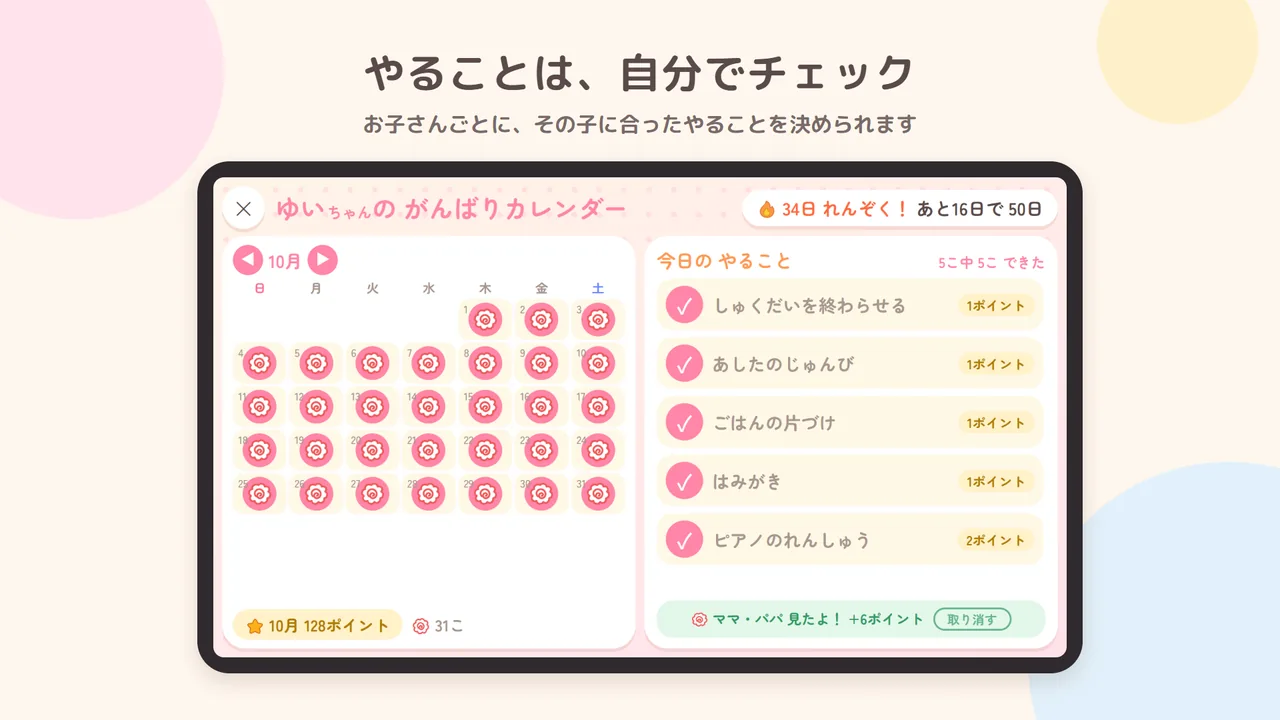
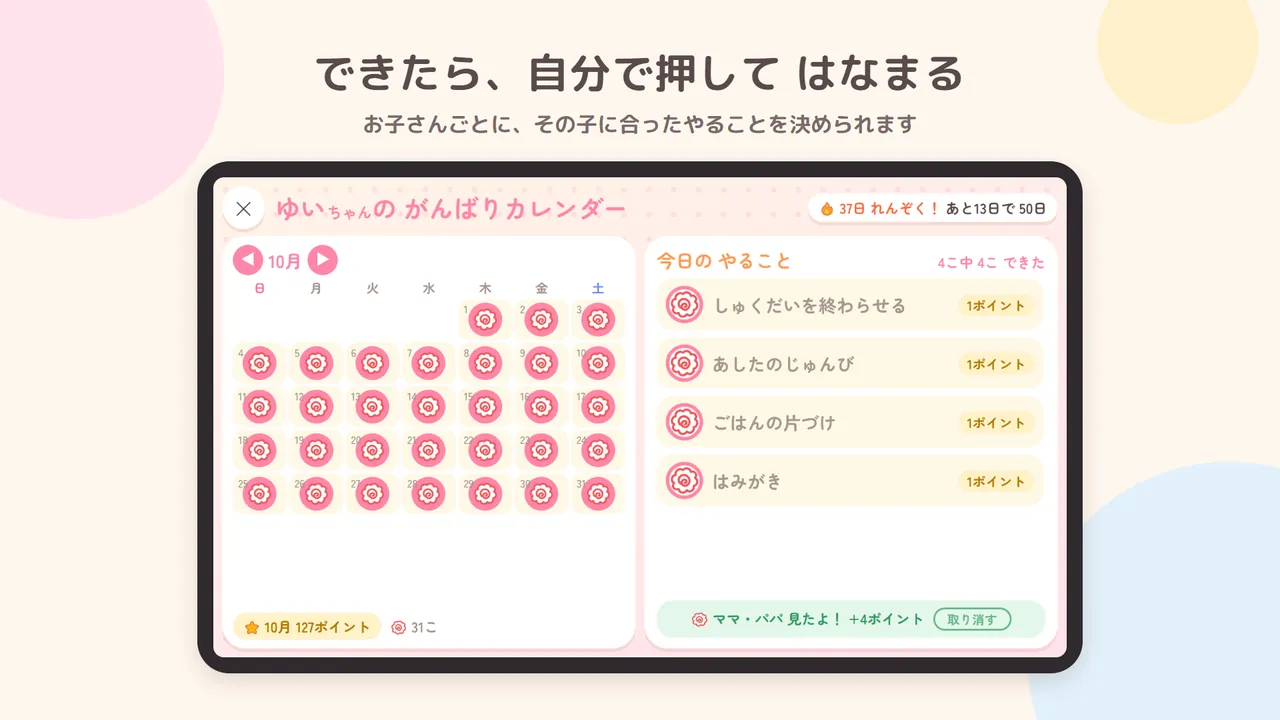
できたしるしを はなまるにそろえ、子どもの画面の画像を撮り直す

diff --git a/index.html b/index.html
@@ -40,7 +40,7 @@
       <p class="copy">今日がわかる。自分でできる。</p>
     </div>
   </div>
-  <p class="lead">余ったタブレットを、子どもが毎朝見るボードにするアプリです。時計・天気・予定と、子どもごとのやることを1つの画面に出します。子どもが自分でチェックし、おうちの人が「みました」を押すと、カレンダーにはなまるがつきます。</p>
+  <p class="lead">余ったタブレットを、子どもが毎朝見るボードにするアプリです。時計・天気・予定と、子どもごとのやることを1つの画面に出します。子どもができたやることを自分で押して はなまるにし、おうちの人が「みました」を押すと、カレンダーにもはなまるがつきます。</p>
 
   <section class="ask">
     <h2>テストにご協力ください</h2>
@@ -51,7 +51,7 @@
   <h2>画面</h2>
   <div class="shots">
     <img src="img/shot-1.webp" alt="ホームの画面。時計・天気・子どもごとのはなまるの数・予定" loading="lazy" width="1280" height="720">
-    <img src="img/shot-2.webp" alt="子どもの画面。やることを自分でチェックする" loading="lazy" width="1280" height="720">
+    <img src="img/shot-2.webp" alt="子どもの画面。できたやることを自分で押して はなまるにする" loading="lazy" width="1280" height="720">
     <img src="img/shot-3.webp" alt="カレンダー。おうちの人が見た日にはなまるがつく" loading="lazy" width="1280" height="720">
     <img src="img/shot-4.webp" alt="スマホの画面。タブレットがなくても試せる" loading="lazy" width="1280" height="720">
   </div>
@@ -59,7 +59,7 @@
   <h2>できること</h2>
   <ul>
     <li><b>朝の準備</b>: 天気から「はんそで」「かさ いるよ」などを出し、着る服や持ち物を子どもが自分で考えるきっかけにします。</li>
-    <li><b>がんばりカレンダー</b>: お子さんごとに決めたやることを、子どもが自分でチェックします。できた日はカレンダーにたまっていきます。</li>
+    <li><b>がんばりカレンダー</b>: お子さんごとに決めたやることを、できたら子どもが自分で押して はなまるにします。できた日はカレンダーにたまっていきます。</li>
     <li><b>おうちの人のスマホから</b>: 同じ Wi-Fi のスマホから、記録を見て「みました」を押せます。</li>
     <li><b>データは端末の中だけ</b>: 記録や設定は外に送りません。広告もありません。</li>
   </ul>
